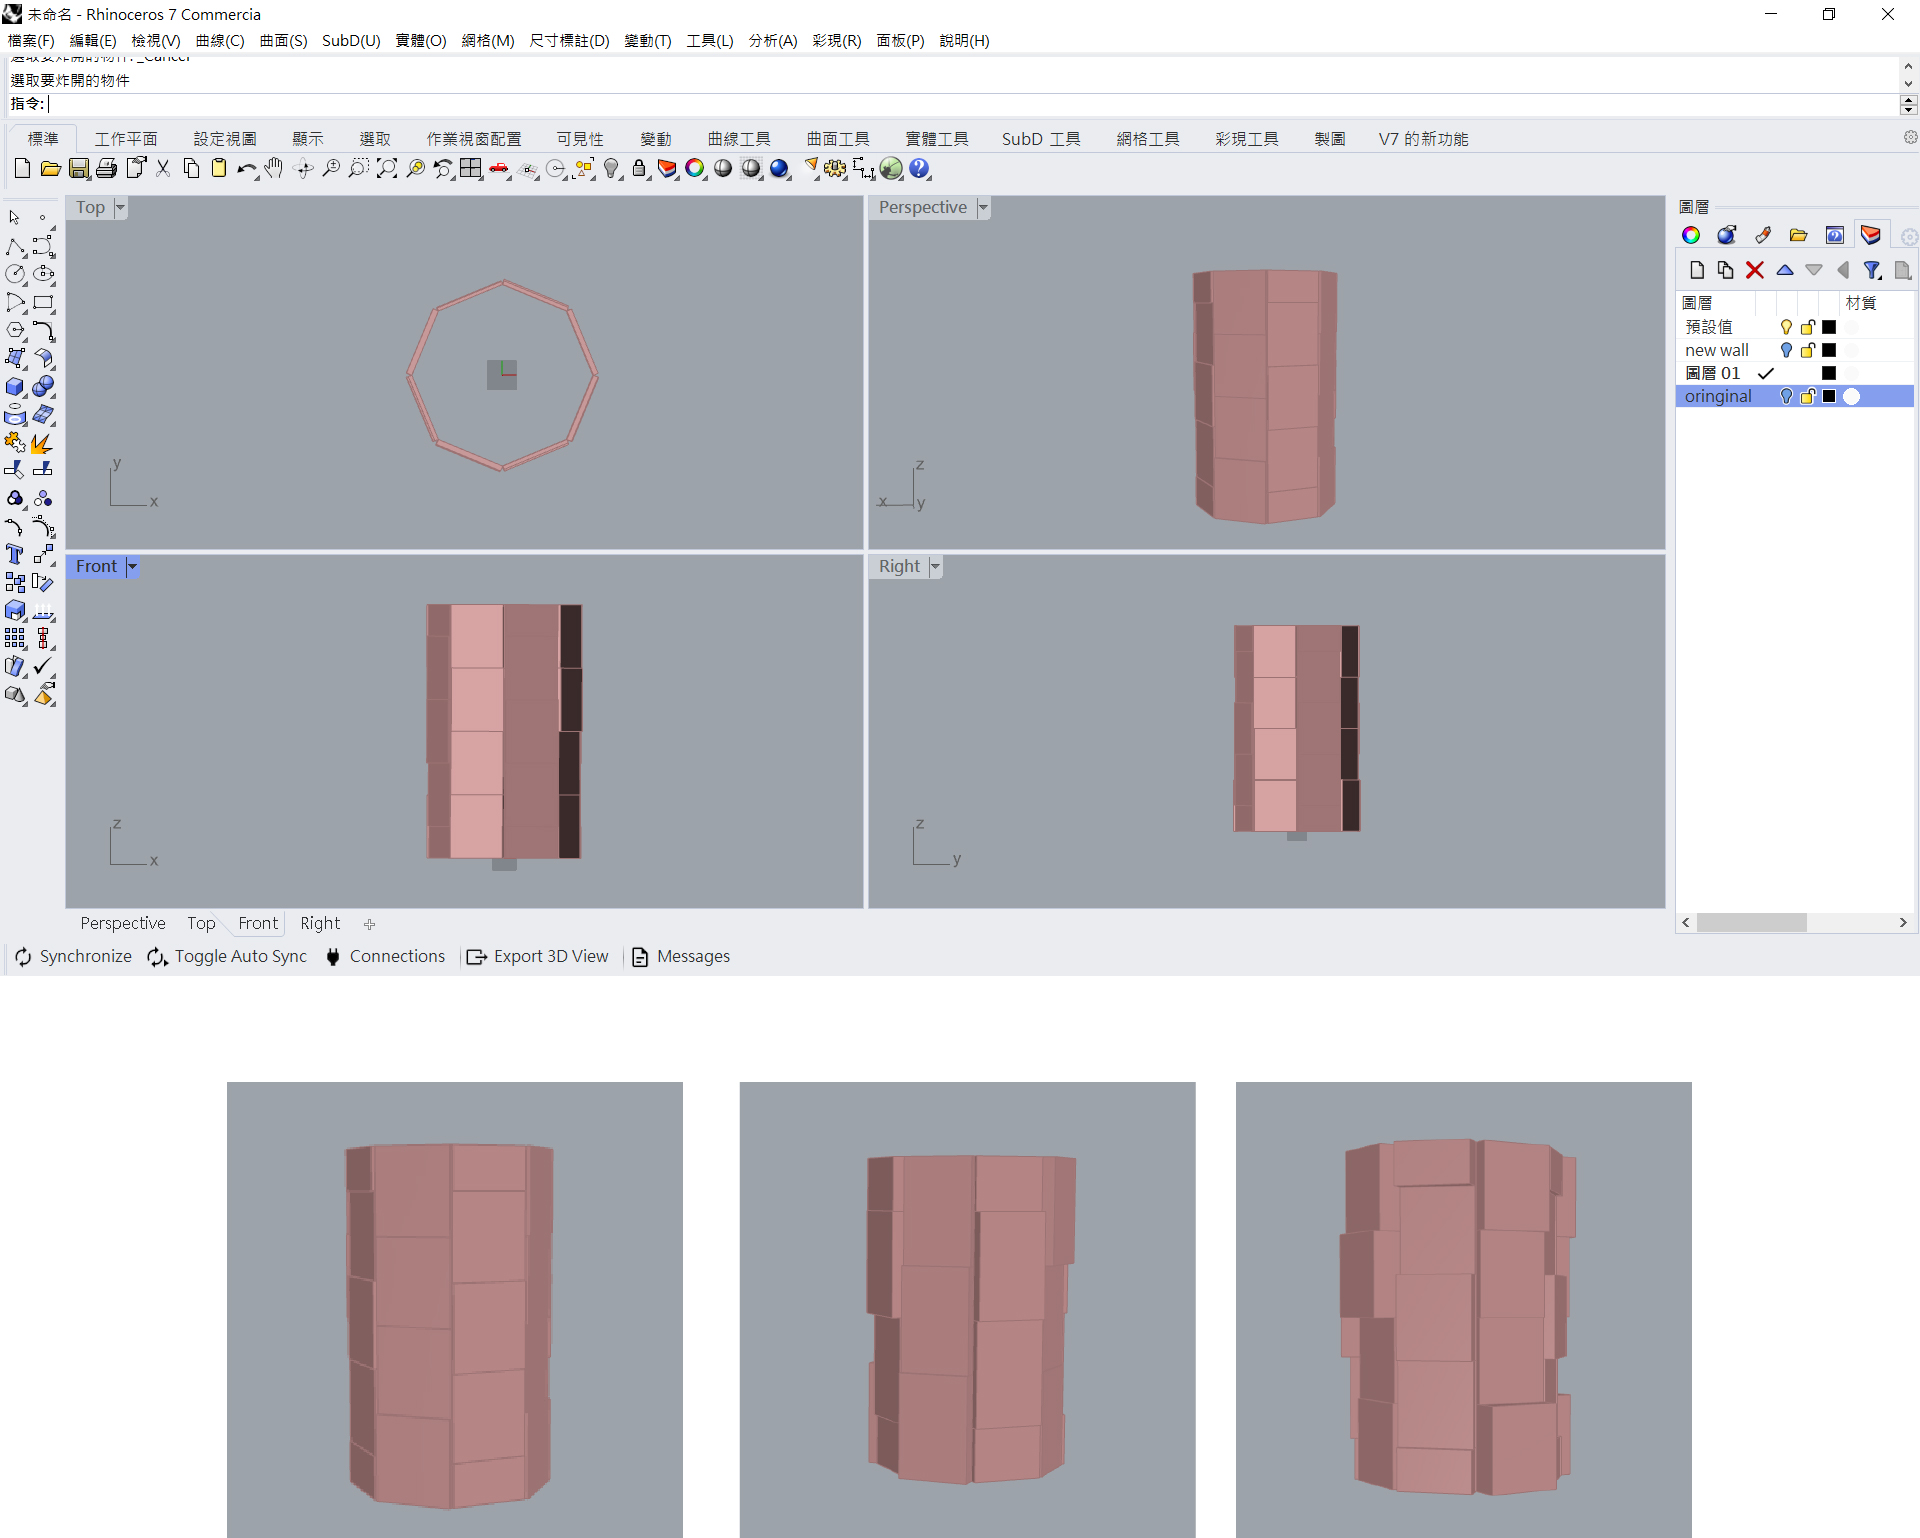
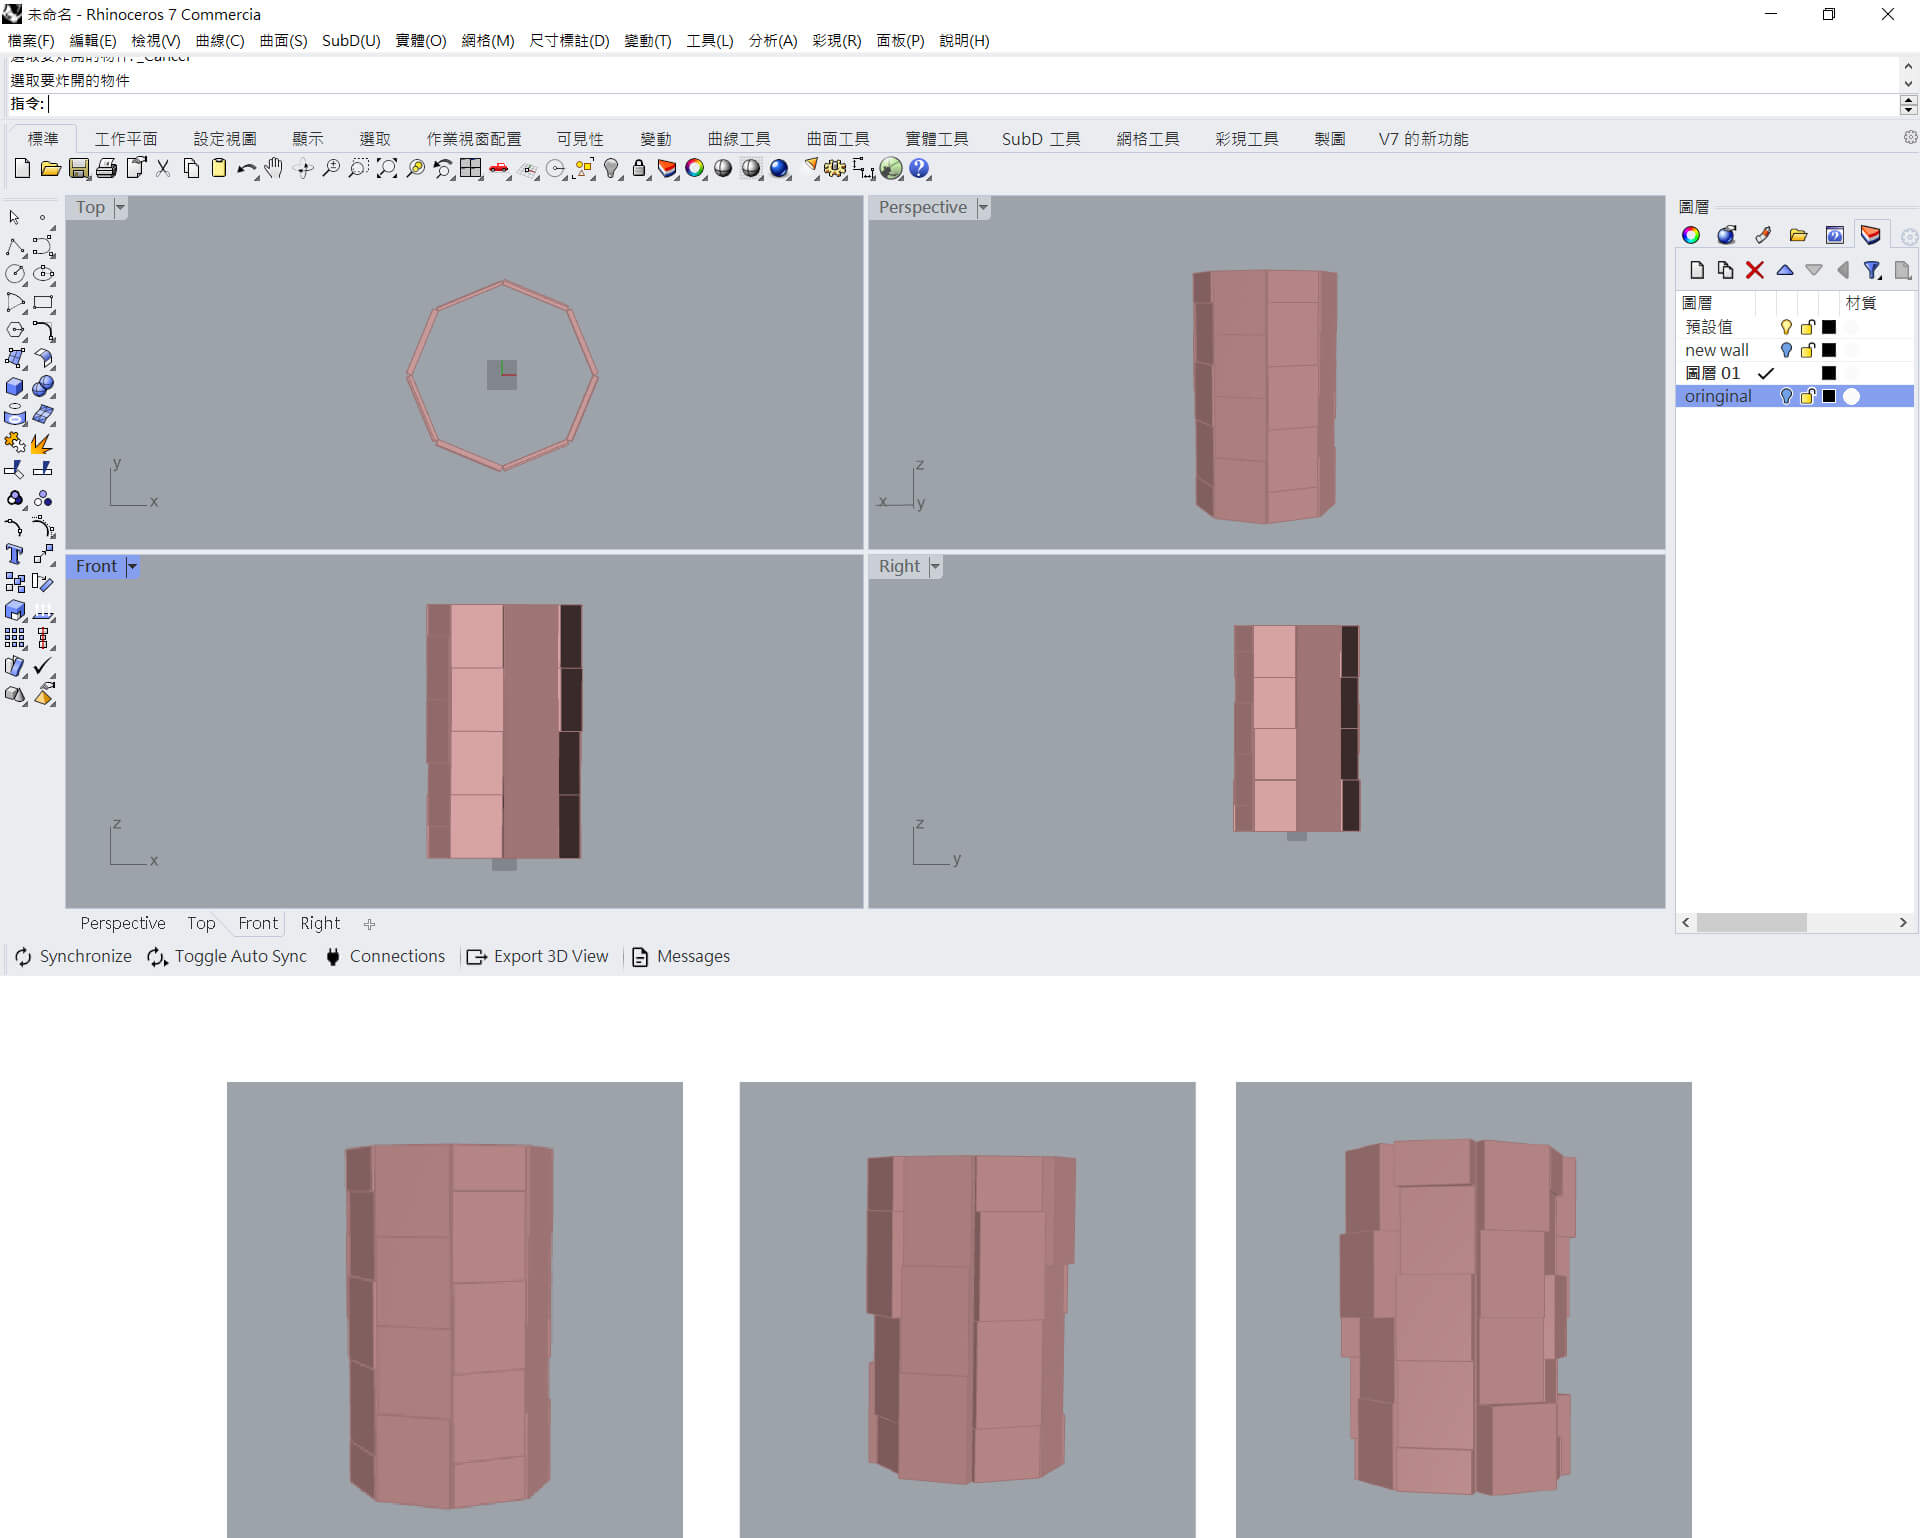
Compress image
Vague.Soundmate,Controller

diff --git a/works_SOUNDMATE.html b/works_SOUNDMATE.html
@@ -111,7 +111,7 @@
     <!--connection-->
     <article class="wp_concept">
         <h2>CONNECTION</h2>
-        <img src="images/SOUNDMATE/s2.png" />
+        <img src="images/SOUNDMATE/s2.jpg" />
         <div class="wp_paragraph">
             <p>There are two parts of the product, "FRAME" and "CUP", connecting via the wifi signal. SOUNDMATE will
                 collect the ambient sound of the other user then convert it into live dynamic soundscapes. By observing

diff --git a/works_Controller.html b/works_Controller.html
@@ -152,7 +152,7 @@
 
     <article class="wp_concept">
 
-        <img src="images/Controller/c1.png" />
+        <img src="images/Controller/c1.jpg" />
     </article>
 
     <article class="wp_concept">
